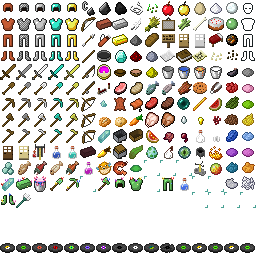
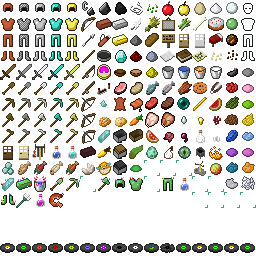
Creative tabs, descriptions and tooltips for the new items, nether quartz's picture back
Creative inventory: the bed and the sign are useful blocks (Functional),
the trident a weapon, the coral tools and the axolotl bucket tools, the
Potion of Unpoison a drink.

Descriptions for every item and block added lately that had none (they
showed 'couldn't find desc'), and I18n strips 'coral' as it strips the
other materials, so coral armour reads as armour. Tooltips: the trident's
damage, the coral tools' efficiency underwater, the coral armour's extra
15s of pressure time, Unpoison's duration, the shrimp's pressure.

Nether quartz's icon cell (5,10) had been given to the Potion of Unpoison
as well, which painted over it; the quartz is back from history and the
potion moved to (2,12). The shrimp likewise shared (7,10) with the furnace
minecart: restored, shrimp at (3,12). No other cell is shared.

Claude-Session: https://claude.ai/code/session_017mH2AEpB4uvm7sSTXaKhRB

Changed region(s): [[0.125, 0.75, 0.25, 0.8125], [0.4375, 0.625, 0.5, 0.6875], [0.3125, 0.625, 0.375, 0.6875]]

diff --git a/handheld/src/world/item/Item.cpp b/handheld/src/world/item/Item.cpp
@@ -346,7 +346,7 @@ void Item::initItems() {
 	// Java's spider eye (id 375, icon 11,8 already in the atlas): poisons 4s.
 	Item::spiderEye  = (new PoisonFoodItem(119, 2, 4 * 20))->setIcon(11, 8)->setCategory(ItemCategory::FoodArmor)->setDescriptionId("spiderEye");
 	Item::pufferfish = (new PoisonFoodItem(164, 1, MobEffects::PufferPoisonTicks))->setIcon(6, 10)->setCategory(ItemCategory::FoodArmor)->setDescriptionId("pufferfish");
-	Item::shrimp = (new ShrimpItem(165))->setIcon(7, 10)->setCategory(ItemCategory::FoodArmor)->setDescriptionId("shrimp");
+	Item::shrimp = (new ShrimpItem(165))->setIcon(3, 12)->setCategory(ItemCategory::FoodArmor)->setDescriptionId("shrimp");
 	Item::turtleScute      = (new Item(166))->setIcon(8, 10)->setCategory(ItemCategory::Tools)->setDescriptionId("turtleScute");
 	Item::crystalizedCoral = (new Item(167))->setIcon(0, 11)->setCategory(ItemCategory::Tools)->setDescriptionId("crystalizedCoral");
 	Item::coralIngot       = (new Item(168))->setIcon(1, 11)->setCategory(ItemCategory::Tools)->setDescriptionId("coralIngot");
@@ -367,7 +367,7 @@ void Item::initItems() {
 	Item::waterBottle = (new BottleItem(117, true))->setIcon(11, 11)->setMaxStackSize(16)->setCategory(ItemCategory::FoodArmor)->setDescriptionId("emptyPotion");
 	Item::glassBottle = (new BottleItem(118, false))->setIcon(12, 8)->setMaxStackSize(16)->setCategory(ItemCategory::FoodArmor)->setDescriptionId("glassBottle");
 	Item::awkwardPotion = (new PotionItem(155, -1))->setIcon(3, 9)->setMaxStackSize(16)->setCategory(ItemCategory::FoodArmor)->setDescriptionId("awkwardPotion");
-	Item::unpoisonPotion = (new PotionItem(163, MobEffects::Unpoison))->setIcon(5, 10)->setMaxStackSize(1)->setCategory(ItemCategory::FoodArmor)->setDescriptionId("unpoisonPotion");
+	Item::unpoisonPotion = (new PotionItem(163, MobEffects::Unpoison))->setIcon(2, 12)->setMaxStackSize(1)->setCategory(ItemCategory::FoodArmor)->setDescriptionId("unpoisonPotion");
 	Item::waterBreathingPotion = (new PotionItem(156, MobEffects::WaterBreathing))->setIcon(4, 9)->setMaxStackSize(1)->setCategory(ItemCategory::FoodArmor)->setDescriptionId("waterBreathingPotion");
 	Item::blazePowder = (new Item(121))->setIcon(13, 9)->setCategory(ItemCategory::Tools)->setDescriptionId("blazePowder");
 	Item::magmaCream = (new Item(122))->setIcon(13, 10)->setCategory(ItemCategory::Tools)->setDescriptionId("magmaCream");

diff --git a/handheld/src/client/gui/ItemTooltip.h b/handheld/src/client/gui/ItemTooltip.h
@@ -40,8 +40,24 @@ namespace ItemTooltip
 		} else if (Item::shovel_wood && (id == Item::shovel_wood->id || id == Item::shovel_stone->id || id == Item::shovel_iron->id
 				|| id == Item::shovel_gold->id || id == Item::shovel_emerald->id)) {
 			snprintf(buf, sizeof buf, "+%d Dig Efficiency", (int) ((DiggerItem*) it)->getSpeed());
+		} else if (Item::trident && id == Item::trident->id) {
+			snprintf(buf, sizeof buf, "+6 Attack Damage");
+		} else if (Item::pickAxe_coral && id == Item::pickAxe_coral->id) {
+			snprintf(buf, sizeof buf, "+%d Mining Efficiency, underwater too", (int) ((DiggerItem*) it)->getSpeed());
+		} else if (Item::hatchet_coral && id == Item::hatchet_coral->id) {
+			snprintf(buf, sizeof buf, "+%d Chop Efficiency, underwater too", (int) ((DiggerItem*) it)->getSpeed());
+		} else if (Item::shovel_coral && id == Item::shovel_coral->id) {
+			snprintf(buf, sizeof buf, "+%d Dig Efficiency, underwater too", (int) ((DiggerItem*) it)->getSpeed());
+		} else if (Item::helmet_coral && (id == Item::helmet_coral->id || id == Item::chestplate_coral->id
+				|| id == Item::leggings_coral->id || id == Item::boots_coral->id)) {
+			snprintf(buf, sizeof buf, "+%d Armor, +15s Pressure Time", ((ArmorItem*) it)->defense);
 		} else if (it->isArmor()) {
 			snprintf(buf, sizeof buf, "+%d Armor", ((ArmorItem*) it)->defense);
+		} else if (Item::unpoisonPotion && id == Item::unpoisonPotion->id) {
+			const int s = Item::PotionDurationTicks / 20;
+			snprintf(buf, sizeof buf, "Poison Immunity (%d:%02d)", s / 60, s % 60);
+		} else if (Item::shrimp && id == Item::shrimp->id) {
+			snprintf(buf, sizeof buf, "-2 Pressure");
 		} else if (Item::waterBreathingPotion && id == Item::waterBreathingPotion->id) {
 			const int s = Item::PotionDurationTicks / 20;
 			snprintf(buf, sizeof buf, "Water Breathing (%d:%02d)", s / 60, s % 60);

diff --git a/handheld/src/client/gui/screens/touch/CreativeInventoryScreen.cpp b/handheld/src/client/gui/screens/touch/CreativeInventoryScreen.cpp
@@ -76,7 +76,7 @@ int CreativeInventoryScreen::sectionOf(const ItemInstance& item)
 	if (self->isArmor()) return WeaponsArmor;
 	Item* const weapons[] = {
 		Item::sword_wood, Item::sword_stone, Item::sword_iron, Item::sword_gold, Item::sword_emerald,
-		Item::bow, Item::arrow,
+		Item::bow, Item::arrow, Item::trident,
 	};
 	if (isOneOf(id, weapons, COUNT(weapons))) return WeaponsArmor;
 	Item* const tools[] = {
@@ -86,15 +86,17 @@ int CreativeInventoryScreen::sectionOf(const ItemInstance& item)
 		Item::hoe_wood, Item::hoe_stone, Item::hoe_iron, Item::hoe_gold, Item::hoe_emerald,
 		Item::flintAndSteel, Item::shears, Item::bucket_empty, Item::bucket_water, Item::bucket_lava,
 		Item::clock, Item::compass, Item::camera,
+		Item::pickAxe_coral, Item::shovel_coral, Item::hatchet_coral, Item::axolotlBucket,
 	};
 	if (isOneOf(id, tools, COUNT(tools))) return Tools;
-	Item* const drinks[] = { Item::waterBottle, Item::awkwardPotion, Item::waterBreathingPotion, Item::mushroomStew };
+	Item* const drinks[] = { Item::waterBottle, Item::awkwardPotion, Item::waterBreathingPotion, Item::unpoisonPotion, Item::mushroomStew };
 	if (self->isFood() || isOneOf(id, drinks, COUNT(drinks))) return FoodDrinks;
 	Item* const building[] = {
-		Item::door_wood, Item::door_iron, Item::door_spruce, Item::door_birch, Item::sign, Item::painting, Item::bed,
+		Item::door_wood, Item::door_iron, Item::door_spruce, Item::door_birch, Item::painting,
 	};
 	if (isOneOf(id, building, COUNT(building))) return Building;
-	if (id == Item::brewingStand->id) return Functional;
+	// Useful blocks: the brewing stand, the bed, the sign.
+	if (id == Item::brewingStand->id || id == Item::bed->id || id == Item::sign->id) return Functional;
 	return Ingredients;
 }
 

diff --git a/handheld/src/locale/I18n.cpp b/handheld/src/locale/I18n.cpp
@@ -99,7 +99,8 @@ std::string I18n::getDescriptionString( const ItemInstance& item )
 		"brick",
 		"emerald",
 		"lapis",
-		"cloth"
+		"cloth",
+		"coral"
 	};
 
 	Util::removeAll(s, materials, sizeof(materials) / sizeof(const char*));
